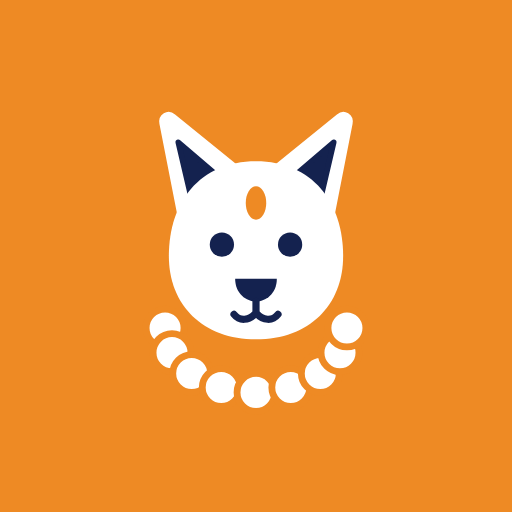
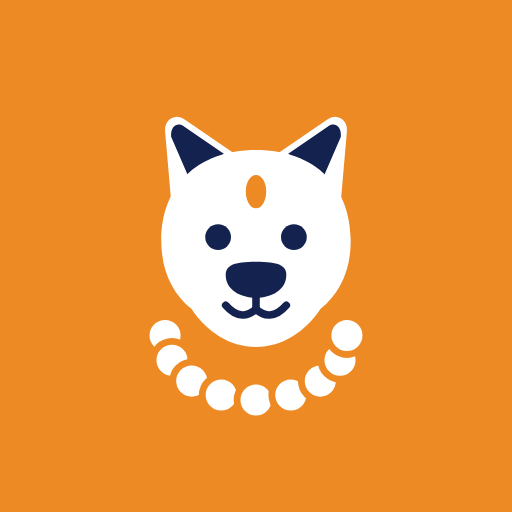
Cachorro com cara mais canina (orelhas dobradas) em todo o app e nos ícones
Claude-Session: https://claude.ai/code/session_015n68Sv2eCJeBy56QsFjyZi

diff --git a/app.js b/app.js
@@ -1,6 +1,6 @@
 import { Decrypter } from "./vendor/age.js";
 
-const VERSAO_APP = "v17";
+const VERSAO_APP = "v18";
 
 /* ---------- utilidades ---------- */
 const $app = document.getElementById("app");
@@ -83,11 +83,11 @@ const PAISES = {
 const OURO = { nome: "Brasil", cor: "#F2C230", tint: "#FBEFC4", claro: true };
 
 /* o cachorro do Indaly (logo). Desenho gerado por ferramentas/cao.py */
-const CAO = '<path d="M31 43 L25.5 15 C25.2 13.3 26.8 12.4 28 13.4 L46 28 Z" fill="#FFFFFF" stroke="#FFFFFF" stroke-width="2" stroke-linejoin="round"/><path d="M69 43 L74.5 15 C74.8 13.3 73.2 12.4 72 13.4 L54 28 Z" fill="#FFFFFF" stroke="#FFFFFF" stroke-width="2" stroke-linejoin="round"/><path d="M33 35 L29.5 20 L40 29 Z" fill="#14224F" stroke="#14224F" stroke-width="1.5" stroke-linejoin="round"/><path d="M67 35 L70.5 20 L60 29 Z" fill="#14224F" stroke="#14224F" stroke-width="1.5" stroke-linejoin="round"/><path d="M50 25 C65 25 73 36 73 50 C73 63 64 72 50 72 C36 72 27 63 27 50 C27 36 35 25 50 25 Z" fill="#FFFFFF"/><g class="olho-aberto"><circle cx="41" cy="47" r="3.2" fill="#14224F"/><circle cx="59" cy="47" r="3.2" fill="#14224F"/></g><path d="M44.5 56 H55.5 C55.5 60 52.5 62 50 62 C47.5 62 44.5 60 44.5 56 Z" fill="#14224F"/><path d="M50 62 V65 M50 65 C48.2 67.2 45.6 67.2 44.2 65.4 M50 65 C51.8 67.2 54.4 67.2 55.8 65.4" fill="none" stroke="#14224F" stroke-width="1.9" stroke-linecap="round"/><ellipse cx="50" cy="36" rx="2.7" ry="4.4" fill="#EE8A24"/><circle cx="26.00" cy="69.00" r="5" fill="#FFFFFF" stroke="#EE8A24" stroke-width="1.8"/><circle cx="27.83" cy="75.51" r="5" fill="#FFFFFF" stroke="#EE8A24" stroke-width="1.8"/><circle cx="33.03" cy="81.02" r="5" fill="#FFFFFF" stroke="#EE8A24" stroke-width="1.8"/><circle cx="40.82" cy="84.71" r="5" fill="#FFFFFF" stroke="#EE8A24" stroke-width="1.8"/><circle cx="50.00" cy="86.00" r="5" fill="#FFFFFF" stroke="#EE8A24" stroke-width="1.8"/><circle cx="59.18" cy="84.71" r="5" fill="#FFFFFF" stroke="#EE8A24" stroke-width="1.8"/><circle cx="66.97" cy="81.02" r="5" fill="#FFFFFF" stroke="#EE8A24" stroke-width="1.8"/><circle cx="72.17" cy="75.51" r="5" fill="#FFFFFF" stroke="#EE8A24" stroke-width="1.8"/><circle cx="74.00" cy="69.00" r="5" fill="#FFFFFF" stroke="#EE8A24" stroke-width="1.8"/>';
-const CAO_OLHOS = '<path d="M31 43 L25.5 15 C25.2 13.3 26.8 12.4 28 13.4 L46 28 Z" fill="#FFFFFF" stroke="#FFFFFF" stroke-width="2" stroke-linejoin="round"/><path d="M69 43 L74.5 15 C74.8 13.3 73.2 12.4 72 13.4 L54 28 Z" fill="#FFFFFF" stroke="#FFFFFF" stroke-width="2" stroke-linejoin="round"/><path d="M33 35 L29.5 20 L40 29 Z" fill="#14224F" stroke="#14224F" stroke-width="1.5" stroke-linejoin="round"/><path d="M67 35 L70.5 20 L60 29 Z" fill="#14224F" stroke="#14224F" stroke-width="1.5" stroke-linejoin="round"/><path d="M50 25 C65 25 73 36 73 50 C73 63 64 72 50 72 C36 72 27 63 27 50 C27 36 35 25 50 25 Z" fill="#FFFFFF"/><g class="olho-aberto"><circle cx="41" cy="47" r="3.2" fill="#14224F"/><circle cx="59" cy="47" r="3.2" fill="#14224F"/></g><g class="olho-fechado"><path d="M37.2 46.6 Q41 50.4 44.8 46.6" fill="none" stroke="#14224F" stroke-width="2.3" stroke-linecap="round"/><path d="M55.2 46.6 Q59 50.4 62.8 46.6" fill="none" stroke="#14224F" stroke-width="2.3" stroke-linecap="round"/></g><path d="M44.5 56 H55.5 C55.5 60 52.5 62 50 62 C47.5 62 44.5 60 44.5 56 Z" fill="#14224F"/><path d="M50 62 V65 M50 65 C48.2 67.2 45.6 67.2 44.2 65.4 M50 65 C51.8 67.2 54.4 67.2 55.8 65.4" fill="none" stroke="#14224F" stroke-width="1.9" stroke-linecap="round"/><ellipse cx="50" cy="36" rx="2.7" ry="4.4" fill="#EE8A24"/><circle cx="26.00" cy="69.00" r="5" fill="#FFFFFF" stroke="#EE8A24" stroke-width="1.8"/><circle cx="27.83" cy="75.51" r="5" fill="#FFFFFF" stroke="#EE8A24" stroke-width="1.8"/><circle cx="33.03" cy="81.02" r="5" fill="#FFFFFF" stroke="#EE8A24" stroke-width="1.8"/><circle cx="40.82" cy="84.71" r="5" fill="#FFFFFF" stroke="#EE8A24" stroke-width="1.8"/><circle cx="50.00" cy="86.00" r="5" fill="#FFFFFF" stroke="#EE8A24" stroke-width="1.8"/><circle cx="59.18" cy="84.71" r="5" fill="#FFFFFF" stroke="#EE8A24" stroke-width="1.8"/><circle cx="66.97" cy="81.02" r="5" fill="#FFFFFF" stroke="#EE8A24" stroke-width="1.8"/><circle cx="72.17" cy="75.51" r="5" fill="#FFFFFF" stroke="#EE8A24" stroke-width="1.8"/><circle cx="74.00" cy="69.00" r="5" fill="#FFFFFF" stroke="#EE8A24" stroke-width="1.8"/>';
-const CAO_FRASE = '<path d="M31 43 L25.5 15 C25.2 13.3 26.8 12.4 28 13.4 L46 28 Z" fill="#FFFFFF" stroke="#FFFFFF" stroke-width="2" stroke-linejoin="round"/><path d="M69 43 L74.5 15 C74.8 13.3 73.2 12.4 72 13.4 L54 28 Z" fill="#FFFFFF" stroke="#FFFFFF" stroke-width="2" stroke-linejoin="round"/><path d="M33 35 L29.5 20 L40 29 Z" fill="#14224F" stroke="#14224F" stroke-width="1.5" stroke-linejoin="round"/><path d="M67 35 L70.5 20 L60 29 Z" fill="#14224F" stroke="#14224F" stroke-width="1.5" stroke-linejoin="round"/><path d="M50 25 C65 25 73 36 73 50 C73 63 64 72 50 72 C36 72 27 63 27 50 C27 36 35 25 50 25 Z" fill="#FFFFFF"/><g class="olho-aberto"><circle cx="41" cy="47" r="3.2" fill="#14224F"/><circle cx="59" cy="47" r="3.2" fill="#14224F"/></g><path d="M44.5 56 H55.5 C55.5 60 52.5 62 50 62 C47.5 62 44.5 60 44.5 56 Z" fill="#14224F"/><path d="M50 62 V65 M50 65 C48.2 67.2 45.6 67.2 44.2 65.4 M50 65 C51.8 67.2 54.4 67.2 55.8 65.4" fill="none" stroke="#14224F" stroke-width="1.9" stroke-linecap="round"/><ellipse cx="50" cy="36" rx="2.7" ry="4.4" fill="#EE8A24"/><circle cx="26.00" cy="69.00" r="5" fill="#FFFFFF" stroke="#14224F" stroke-width="1.8"/><circle cx="27.83" cy="75.51" r="5" fill="#FFFFFF" stroke="#14224F" stroke-width="1.8"/><circle cx="33.03" cy="81.02" r="5" fill="#FFFFFF" stroke="#14224F" stroke-width="1.8"/><circle cx="40.82" cy="84.71" r="5" fill="#FFFFFF" stroke="#14224F" stroke-width="1.8"/><circle cx="50.00" cy="86.00" r="5" fill="#FFFFFF" stroke="#14224F" stroke-width="1.8"/><circle cx="59.18" cy="84.71" r="5" fill="#FFFFFF" stroke="#14224F" stroke-width="1.8"/><circle cx="66.97" cy="81.02" r="5" fill="#FFFFFF" stroke="#14224F" stroke-width="1.8"/><circle cx="72.17" cy="75.51" r="5" fill="#FFFFFF" stroke="#14224F" stroke-width="1.8"/><circle cx="74.00" cy="69.00" r="5" fill="#FFFFFF" stroke="#14224F" stroke-width="1.8"/>';
-const CAO_SEM_GUIRLANDA = '<path d="M31 43 L25.5 15 C25.2 13.3 26.8 12.4 28 13.4 L46 28 Z" fill="#FFFFFF" stroke="#FFFFFF" stroke-width="2" stroke-linejoin="round"/><path d="M69 43 L74.5 15 C74.8 13.3 73.2 12.4 72 13.4 L54 28 Z" fill="#FFFFFF" stroke="#FFFFFF" stroke-width="2" stroke-linejoin="round"/><path d="M33 35 L29.5 20 L40 29 Z" fill="#14224F" stroke="#14224F" stroke-width="1.5" stroke-linejoin="round"/><path d="M67 35 L70.5 20 L60 29 Z" fill="#14224F" stroke="#14224F" stroke-width="1.5" stroke-linejoin="round"/><path d="M50 25 C65 25 73 36 73 50 C73 63 64 72 50 72 C36 72 27 63 27 50 C27 36 35 25 50 25 Z" fill="#FFFFFF"/><g class="olho-aberto"><circle cx="41" cy="47" r="3.2" fill="#14224F"/><circle cx="59" cy="47" r="3.2" fill="#14224F"/></g><path d="M44.5 56 H55.5 C55.5 60 52.5 62 50 62 C47.5 62 44.5 60 44.5 56 Z" fill="#14224F"/><path d="M50 62 V65 M50 65 C48.2 67.2 45.6 67.2 44.2 65.4 M50 65 C51.8 67.2 54.4 67.2 55.8 65.4" fill="none" stroke="#14224F" stroke-width="1.9" stroke-linecap="round"/><ellipse cx="50" cy="36" rx="2.7" ry="4.4" fill="#EE8A24"/>';
-const CAO_FUSO = '<path d="M31 43 L25.5 15 C25.2 13.3 26.8 12.4 28 13.4 L46 28 Z" fill="#FFFFFF" stroke="#FFFFFF" stroke-width="2" stroke-linejoin="round"/><path d="M69 43 L74.5 15 C74.8 13.3 73.2 12.4 72 13.4 L54 28 Z" fill="#FFFFFF" stroke="#FFFFFF" stroke-width="2" stroke-linejoin="round"/><path d="M33 35 L29.5 20 L40 29 Z" fill="#14224F" stroke="#14224F" stroke-width="1.5" stroke-linejoin="round"/><path d="M67 35 L70.5 20 L60 29 Z" fill="#14224F" stroke="#14224F" stroke-width="1.5" stroke-linejoin="round"/><path d="M50 25 C65 25 73 36 73 50 C73 63 64 72 50 72 C36 72 27 63 27 50 C27 36 35 25 50 25 Z" fill="#FFFFFF"/><circle cx="41" cy="47" r="3.2" fill="#14224F"/><path d="M55.2 46.6 Q59 50.4 62.8 46.6" fill="none" stroke="#14224F" stroke-width="2.3" stroke-linecap="round"/><path d="M44.5 56 H55.5 C55.5 60 52.5 62 50 62 C47.5 62 44.5 60 44.5 56 Z" fill="#14224F"/><path d="M50 62 V65 M50 65 C48.2 67.2 45.6 67.2 44.2 65.4 M50 65 C51.8 67.2 54.4 67.2 55.8 65.4" fill="none" stroke="#14224F" stroke-width="1.9" stroke-linecap="round"/><ellipse cx="50" cy="36" rx="2.7" ry="4.4" fill="#EE8A24"/><circle cx="26.00" cy="69.00" r="5" fill="#FFFFFF" stroke="#0D7A48" stroke-width="1.8"/><circle cx="27.83" cy="75.51" r="5" fill="#FFFFFF" stroke="#0D7A48" stroke-width="1.8"/><circle cx="33.03" cy="81.02" r="5" fill="#FFFFFF" stroke="#0D7A48" stroke-width="1.8"/><circle cx="40.82" cy="84.71" r="5" fill="#FFFFFF" stroke="#0D7A48" stroke-width="1.8"/><circle cx="50.00" cy="86.00" r="5" fill="#FFFFFF" stroke="#0D7A48" stroke-width="1.8"/><circle cx="59.18" cy="84.71" r="5" fill="#FFFFFF" stroke="#0D7A48" stroke-width="1.8"/><circle cx="66.97" cy="81.02" r="5" fill="#FFFFFF" stroke="#0D7A48" stroke-width="1.8"/><circle cx="72.17" cy="75.51" r="5" fill="#FFFFFF" stroke="#0D7A48" stroke-width="1.8"/><circle cx="74.00" cy="69.00" r="5" fill="#FFFFFF" stroke="#0D7A48" stroke-width="1.8"/>';
+const CAO = '<path d="M29 40 L27 17 C26.8 14.5 29 13.6 30.6 14.8 L47 26 Z" fill="#FFFFFF" stroke="#FFFFFF" stroke-width="2" stroke-linejoin="round"/><path d="M27.6 18.5 C27.4 15.6 29.4 14.6 31 15.8 L41.5 23 L33 31 Z" fill="#14224F"/><path d="M71 40 L73 17 C73.2 14.5 71 13.6 69.4 14.8 L53 26 Z" fill="#FFFFFF" stroke="#FFFFFF" stroke-width="2" stroke-linejoin="round"/><path d="M72.4 18.5 C72.6 15.6 70.6 14.6 69 15.8 L58.5 23 L67 31 Z" fill="#14224F"/><path d="M50 22 C66 22 75 32 75 46 C75 54 72 60 67 64 C63 70 57 74 50 74 C43 74 37 70 33 64 C28 60 25 54 25 46 C25 32 34 22 50 22 Z" fill="#FFFFFF"/><g class="olho-aberto"><circle cx="40" cy="45" r="3.4" fill="#14224F"/><circle cx="60" cy="45" r="3.4" fill="#14224F"/></g><path d="M42 55 C42 52.5 44 51.5 50 51.5 C56 51.5 58 52.5 58 55 C58 59 54 61 50 61 C46 61 42 59 42 55 Z" fill="#14224F"/><path d="M50 61 V64" stroke="#14224F" stroke-width="2" stroke-linecap="round" fill="none"/><path d="M42 63 C45 66.5 48 66 50 64 C52 66 55 66.5 58 63" fill="none" stroke="#14224F" stroke-width="2" stroke-linecap="round"/><ellipse cx="50" cy="33" rx="2.7" ry="4.4" fill="#EE8A24"/><circle cx="26.00" cy="71.00" r="5" fill="#FFFFFF" stroke="#EE8A24" stroke-width="1.8"/><circle cx="27.83" cy="77.51" r="5" fill="#FFFFFF" stroke="#EE8A24" stroke-width="1.8"/><circle cx="33.03" cy="83.02" r="5" fill="#FFFFFF" stroke="#EE8A24" stroke-width="1.8"/><circle cx="40.82" cy="86.71" r="5" fill="#FFFFFF" stroke="#EE8A24" stroke-width="1.8"/><circle cx="50.00" cy="88.00" r="5" fill="#FFFFFF" stroke="#EE8A24" stroke-width="1.8"/><circle cx="59.18" cy="86.71" r="5" fill="#FFFFFF" stroke="#EE8A24" stroke-width="1.8"/><circle cx="66.97" cy="83.02" r="5" fill="#FFFFFF" stroke="#EE8A24" stroke-width="1.8"/><circle cx="72.17" cy="77.51" r="5" fill="#FFFFFF" stroke="#EE8A24" stroke-width="1.8"/><circle cx="74.00" cy="71.00" r="5" fill="#FFFFFF" stroke="#EE8A24" stroke-width="1.8"/>';
+const CAO_OLHOS = '<path d="M29 40 L27 17 C26.8 14.5 29 13.6 30.6 14.8 L47 26 Z" fill="#FFFFFF" stroke="#FFFFFF" stroke-width="2" stroke-linejoin="round"/><path d="M27.6 18.5 C27.4 15.6 29.4 14.6 31 15.8 L41.5 23 L33 31 Z" fill="#14224F"/><path d="M71 40 L73 17 C73.2 14.5 71 13.6 69.4 14.8 L53 26 Z" fill="#FFFFFF" stroke="#FFFFFF" stroke-width="2" stroke-linejoin="round"/><path d="M72.4 18.5 C72.6 15.6 70.6 14.6 69 15.8 L58.5 23 L67 31 Z" fill="#14224F"/><path d="M50 22 C66 22 75 32 75 46 C75 54 72 60 67 64 C63 70 57 74 50 74 C43 74 37 70 33 64 C28 60 25 54 25 46 C25 32 34 22 50 22 Z" fill="#FFFFFF"/><g class="olho-aberto"><circle cx="40" cy="45" r="3.4" fill="#14224F"/><circle cx="60" cy="45" r="3.4" fill="#14224F"/></g><g class="olho-fechado"><path d="M36.2 44.6 Q40 48.4 43.8 44.6" fill="none" stroke="#14224F" stroke-width="2.3" stroke-linecap="round"/><path d="M56.2 44.6 Q60 48.4 63.8 44.6" fill="none" stroke="#14224F" stroke-width="2.3" stroke-linecap="round"/></g><path d="M42 55 C42 52.5 44 51.5 50 51.5 C56 51.5 58 52.5 58 55 C58 59 54 61 50 61 C46 61 42 59 42 55 Z" fill="#14224F"/><path d="M50 61 V64" stroke="#14224F" stroke-width="2" stroke-linecap="round" fill="none"/><path d="M42 63 C45 66.5 48 66 50 64 C52 66 55 66.5 58 63" fill="none" stroke="#14224F" stroke-width="2" stroke-linecap="round"/><ellipse cx="50" cy="33" rx="2.7" ry="4.4" fill="#EE8A24"/><circle cx="26.00" cy="71.00" r="5" fill="#FFFFFF" stroke="#EE8A24" stroke-width="1.8"/><circle cx="27.83" cy="77.51" r="5" fill="#FFFFFF" stroke="#EE8A24" stroke-width="1.8"/><circle cx="33.03" cy="83.02" r="5" fill="#FFFFFF" stroke="#EE8A24" stroke-width="1.8"/><circle cx="40.82" cy="86.71" r="5" fill="#FFFFFF" stroke="#EE8A24" stroke-width="1.8"/><circle cx="50.00" cy="88.00" r="5" fill="#FFFFFF" stroke="#EE8A24" stroke-width="1.8"/><circle cx="59.18" cy="86.71" r="5" fill="#FFFFFF" stroke="#EE8A24" stroke-width="1.8"/><circle cx="66.97" cy="83.02" r="5" fill="#FFFFFF" stroke="#EE8A24" stroke-width="1.8"/><circle cx="72.17" cy="77.51" r="5" fill="#FFFFFF" stroke="#EE8A24" stroke-width="1.8"/><circle cx="74.00" cy="71.00" r="5" fill="#FFFFFF" stroke="#EE8A24" stroke-width="1.8"/>';
+const CAO_FRASE = '<path d="M29 40 L27 17 C26.8 14.5 29 13.6 30.6 14.8 L47 26 Z" fill="#FFFFFF" stroke="#FFFFFF" stroke-width="2" stroke-linejoin="round"/><path d="M27.6 18.5 C27.4 15.6 29.4 14.6 31 15.8 L41.5 23 L33 31 Z" fill="#14224F"/><path d="M71 40 L73 17 C73.2 14.5 71 13.6 69.4 14.8 L53 26 Z" fill="#FFFFFF" stroke="#FFFFFF" stroke-width="2" stroke-linejoin="round"/><path d="M72.4 18.5 C72.6 15.6 70.6 14.6 69 15.8 L58.5 23 L67 31 Z" fill="#14224F"/><path d="M50 22 C66 22 75 32 75 46 C75 54 72 60 67 64 C63 70 57 74 50 74 C43 74 37 70 33 64 C28 60 25 54 25 46 C25 32 34 22 50 22 Z" fill="#FFFFFF"/><g class="olho-aberto"><circle cx="40" cy="45" r="3.4" fill="#14224F"/><circle cx="60" cy="45" r="3.4" fill="#14224F"/></g><path d="M42 55 C42 52.5 44 51.5 50 51.5 C56 51.5 58 52.5 58 55 C58 59 54 61 50 61 C46 61 42 59 42 55 Z" fill="#14224F"/><path d="M50 61 V64" stroke="#14224F" stroke-width="2" stroke-linecap="round" fill="none"/><path d="M42 63 C45 66.5 48 66 50 64 C52 66 55 66.5 58 63" fill="none" stroke="#14224F" stroke-width="2" stroke-linecap="round"/><ellipse cx="50" cy="33" rx="2.7" ry="4.4" fill="#EE8A24"/><circle cx="26.00" cy="71.00" r="5" fill="#FFFFFF" stroke="#14224F" stroke-width="1.8"/><circle cx="27.83" cy="77.51" r="5" fill="#FFFFFF" stroke="#14224F" stroke-width="1.8"/><circle cx="33.03" cy="83.02" r="5" fill="#FFFFFF" stroke="#14224F" stroke-width="1.8"/><circle cx="40.82" cy="86.71" r="5" fill="#FFFFFF" stroke="#14224F" stroke-width="1.8"/><circle cx="50.00" cy="88.00" r="5" fill="#FFFFFF" stroke="#14224F" stroke-width="1.8"/><circle cx="59.18" cy="86.71" r="5" fill="#FFFFFF" stroke="#14224F" stroke-width="1.8"/><circle cx="66.97" cy="83.02" r="5" fill="#FFFFFF" stroke="#14224F" stroke-width="1.8"/><circle cx="72.17" cy="77.51" r="5" fill="#FFFFFF" stroke="#14224F" stroke-width="1.8"/><circle cx="74.00" cy="71.00" r="5" fill="#FFFFFF" stroke="#14224F" stroke-width="1.8"/>';
+const CAO_SEM_GUIRLANDA = '<path d="M29 40 L27 17 C26.8 14.5 29 13.6 30.6 14.8 L47 26 Z" fill="#FFFFFF" stroke="#FFFFFF" stroke-width="2" stroke-linejoin="round"/><path d="M27.6 18.5 C27.4 15.6 29.4 14.6 31 15.8 L41.5 23 L33 31 Z" fill="#14224F"/><path d="M71 40 L73 17 C73.2 14.5 71 13.6 69.4 14.8 L53 26 Z" fill="#FFFFFF" stroke="#FFFFFF" stroke-width="2" stroke-linejoin="round"/><path d="M72.4 18.5 C72.6 15.6 70.6 14.6 69 15.8 L58.5 23 L67 31 Z" fill="#14224F"/><path d="M50 22 C66 22 75 32 75 46 C75 54 72 60 67 64 C63 70 57 74 50 74 C43 74 37 70 33 64 C28 60 25 54 25 46 C25 32 34 22 50 22 Z" fill="#FFFFFF"/><g class="olho-aberto"><circle cx="40" cy="45" r="3.4" fill="#14224F"/><circle cx="60" cy="45" r="3.4" fill="#14224F"/></g><path d="M42 55 C42 52.5 44 51.5 50 51.5 C56 51.5 58 52.5 58 55 C58 59 54 61 50 61 C46 61 42 59 42 55 Z" fill="#14224F"/><path d="M50 61 V64" stroke="#14224F" stroke-width="2" stroke-linecap="round" fill="none"/><path d="M42 63 C45 66.5 48 66 50 64 C52 66 55 66.5 58 63" fill="none" stroke="#14224F" stroke-width="2" stroke-linecap="round"/><ellipse cx="50" cy="33" rx="2.7" ry="4.4" fill="#EE8A24"/>';
+const CAO_FUSO = '<path d="M29 40 L27 17 C26.8 14.5 29 13.6 30.6 14.8 L47 26 Z" fill="#FFFFFF" stroke="#FFFFFF" stroke-width="2" stroke-linejoin="round"/><path d="M27.6 18.5 C27.4 15.6 29.4 14.6 31 15.8 L41.5 23 L33 31 Z" fill="#14224F"/><path d="M71 40 L73 17 C73.2 14.5 71 13.6 69.4 14.8 L53 26 Z" fill="#FFFFFF" stroke="#FFFFFF" stroke-width="2" stroke-linejoin="round"/><path d="M72.4 18.5 C72.6 15.6 70.6 14.6 69 15.8 L58.5 23 L67 31 Z" fill="#14224F"/><path d="M50 22 C66 22 75 32 75 46 C75 54 72 60 67 64 C63 70 57 74 50 74 C43 74 37 70 33 64 C28 60 25 54 25 46 C25 32 34 22 50 22 Z" fill="#FFFFFF"/><circle cx="40" cy="45" r="3.4" fill="#14224F"/><path d="M56.2 44.6 Q60 48.4 63.8 44.6" fill="none" stroke="#14224F" stroke-width="2.3" stroke-linecap="round"/><path d="M42 55 C42 52.5 44 51.5 50 51.5 C56 51.5 58 52.5 58 55 C58 59 54 61 50 61 C46 61 42 59 42 55 Z" fill="#14224F"/><path d="M50 61 V64" stroke="#14224F" stroke-width="2" stroke-linecap="round" fill="none"/><path d="M42 63 C45 66.5 48 66 50 64 C52 66 55 66.5 58 63" fill="none" stroke="#14224F" stroke-width="2" stroke-linecap="round"/><ellipse cx="50" cy="33" rx="2.7" ry="4.4" fill="#EE8A24"/><circle cx="26.00" cy="71.00" r="5" fill="#FFFFFF" stroke="#0D7A48" stroke-width="1.8"/><circle cx="27.83" cy="77.51" r="5" fill="#FFFFFF" stroke="#0D7A48" stroke-width="1.8"/><circle cx="33.03" cy="83.02" r="5" fill="#FFFFFF" stroke="#0D7A48" stroke-width="1.8"/><circle cx="40.82" cy="86.71" r="5" fill="#FFFFFF" stroke="#0D7A48" stroke-width="1.8"/><circle cx="50.00" cy="88.00" r="5" fill="#FFFFFF" stroke="#0D7A48" stroke-width="1.8"/><circle cx="59.18" cy="86.71" r="5" fill="#FFFFFF" stroke="#0D7A48" stroke-width="1.8"/><circle cx="66.97" cy="83.02" r="5" fill="#FFFFFF" stroke="#0D7A48" stroke-width="1.8"/><circle cx="72.17" cy="77.51" r="5" fill="#FFFFFF" stroke="#0D7A48" stroke-width="1.8"/><circle cx="74.00" cy="71.00" r="5" fill="#FFFFFF" stroke="#0D7A48" stroke-width="1.8"/>';
 function caoSVG(tam, { fundo = true, olhos = "abertos", classe = "", rotulo = "" } = {}) {
   const corpo = olhos === "ambos" ? CAO_OLHOS : CAO;
   const a11y = rotulo ? `role="img" aria-label="${h(rotulo)}"` : 'aria-hidden="true"';
@@ -1166,12 +1166,12 @@ const FUSOS = [
 
 /* sub-apps da aba Mais: para acrescentar um novo, basta incluir aqui e criar a função da página */
 const SUBAPPS = [
-  { id: "emergencia", nome: "Emergência", cor: "#C3122F", icone: `<svg class="icone-cao" viewBox="0 0 100 100" aria-hidden="true"><g transform="translate(0 -7)">${CAO_SEM_GUIRLANDA}</g><path d="M36 67.5 Q50 75 64 67.5" fill="none" stroke="#14224F" stroke-width="3" stroke-linecap="round"></path><rect x="29" y="72" width="42" height="25" rx="9" fill="#FFFFFF"></rect><rect x="36" y="72" width="3.6" height="25" fill="#14224F"></rect><rect x="60.4" y="72" width="3.6" height="25" fill="#14224F"></rect><rect x="47.1" y="77" width="5.8" height="15" rx="1.2" fill="#C3122F"></rect><rect x="42.5" y="81.6" width="15" height="5.8" rx="1.2" fill="#C3122F"></rect></svg>`, tela: () => telaEmergencia() },
-  { id: "frases", nome: "Frases", cor: "#14224F", icone: `<svg class="icone-cao" viewBox="0 0 100 100" aria-hidden="true"><g transform="translate(-9 13) scale(0.9)">${CAO_FRASE}</g><path d="M60 8 H90 A6 6 0 0 1 96 14 V32 A6 6 0 0 1 90 38 H75 L65 46 L67 38 H60 A6 6 0 0 1 54 32 V14 A6 6 0 0 1 60 8 Z" fill="#FFFFFF"></path><circle cx="65.5" cy="23" r="3" fill="#14224F"></circle><circle cx="75" cy="23" r="3" fill="#14224F"></circle><circle cx="84.5" cy="23" r="3" fill="#14224F"></circle></svg>`, tela: () => telaFrases() },
+  { id: "emergencia", nome: "Emergência", cor: "#C3122F", icone: `<svg class="icone-cao" viewBox="0 0 100 100" aria-hidden="true"><g transform="translate(0 -9)">${CAO_SEM_GUIRLANDA}</g><path d="M37 67 Q50 74 63 67" fill="none" stroke="#14224F" stroke-width="3" stroke-linecap="round"></path><rect x="29" y="71" width="42" height="25" rx="9" fill="#FFFFFF"></rect><rect x="36" y="71" width="3.6" height="25" fill="#14224F"></rect><rect x="60.4" y="71" width="3.6" height="25" fill="#14224F"></rect><rect x="47.1" y="77" width="5.8" height="15" rx="1.2" fill="#C3122F"></rect><rect x="42.5" y="81.6" width="15" height="5.8" rx="1.2" fill="#C3122F"></rect></svg>`, tela: () => telaEmergencia() },
+  { id: "frases", nome: "Frases", cor: "#14224F", icone: `<svg class="icone-cao" viewBox="0 0 100 100" aria-hidden="true"><g transform="translate(-9 10) scale(0.9)">${CAO_FRASE}</g><path d="M60 8 H90 A6 6 0 0 1 96 14 V32 A6 6 0 0 1 90 38 H75 L65 46 L67 38 H60 A6 6 0 0 1 54 32 V14 A6 6 0 0 1 60 8 Z" fill="#FFFFFF"></path><circle cx="65.5" cy="23" r="3" fill="#14224F"></circle><circle cx="75" cy="23" r="3" fill="#14224F"></circle><circle cx="84.5" cy="23" r="3" fill="#14224F"></circle></svg>`, tela: () => telaFrases() },
   { id: "mala", nome: "Mala", cor: "#2D4BA0", icone: '<svg viewBox="0 0 24 24" aria-hidden="true"><path d="M9 6V3.5h6V6"/><rect x="5" y="6" width="14" height="13" rx="2.5"/><path d="M9.5 9.5v6M14.5 9.5v6"/><circle cx="8.5" cy="21" r="1"/><circle cx="15.5" cy="21" r="1"/></svg>', tela: (b) => telaMala(b) },
-  { id: "tempo", nome: "Tempo", cor: "#EE8A24", icone: `<svg class="icone-cao" viewBox="0 0 100 100" aria-hidden="true"><g transform="translate(-6 6) scale(1.02)">${CAO}</g><circle cx="84" cy="15" r="8.5" fill="#FFFFFF"></circle><g stroke="#FFFFFF" stroke-width="3.2" stroke-linecap="round"><path d="M84.0 3.0 L84.0 -0.5"></path><path d="M92.5 6.5 L95.0 4.0"></path><path d="M96.0 15.0 L99.5 15.0"></path><path d="M92.5 23.5 L95.0 26.0"></path><path d="M84.0 27.0 L84.0 30.5"></path><path d="M75.5 6.5 L73.0 4.0"></path></g></svg>`, tela: (b) => (b ? telaTempoDia(b) : telaTempo()) },
+  { id: "tempo", nome: "Tempo", cor: "#EE8A24", icone: `<svg class="icone-cao" viewBox="0 0 100 100" aria-hidden="true"><g transform="translate(-4 3) scale(0.98)">${CAO}</g><circle cx="84" cy="15" r="8.5" fill="#FFFFFF"></circle><g stroke="#FFFFFF" stroke-width="3.2" stroke-linecap="round"><path d="M84.0 3.0 L84.0 -0.5"></path><path d="M92.5 6.5 L95.0 4.0"></path><path d="M96.0 15.0 L99.5 15.0"></path><path d="M92.5 23.5 L95.0 26.0"></path><path d="M84.0 27.0 L84.0 30.5"></path><path d="M75.5 6.5 L73.0 4.0"></path></g></svg>`, tela: (b) => (b ? telaTempoDia(b) : telaTempo()) },
   { id: "apps", nome: "Apps úteis", cor: "#A3560A", icone: '<svg viewBox="0 0 24 24" aria-hidden="true"><rect x="4" y="4" width="6.5" height="6.5" rx="1.6"/><rect x="13.5" y="4" width="6.5" height="6.5" rx="1.6"/><rect x="4" y="13.5" width="6.5" height="6.5" rx="1.6"/><rect x="13.5" y="13.5" width="6.5" height="6.5" rx="1.6"/></svg>', tela: () => telaApps() },
-  { id: "fusos", nome: "Fusos", cor: "#0D7A48", icone: `<svg class="icone-cao" viewBox="0 0 100 100" aria-hidden="true"><g transform="translate(50 52) scale(1.12) translate(-50 -52)">${CAO_FUSO}</g></svg>`, tela: () => telaFusos() },
+  { id: "fusos", nome: "Fusos", cor: "#0D7A48", icone: `<svg class="icone-cao" viewBox="0 0 100 100" aria-hidden="true"><g transform="translate(50 53) scale(1.06) translate(-50 -53)">${CAO_FUSO}</g></svg>`, tela: () => telaFusos() },
   { id: "tema", nome: "Tema", cor: "#0D1222", icone: '<svg viewBox="0 0 24 24" aria-hidden="true"><path d="M20 14.5A8 8 0 1 1 9.5 4a6.5 6.5 0 0 0 10.5 10.5z"/></svg>', tela: () => telaTema() },
   { id: "atualizar", nome: "Atualizar", cor: "#565D78", icone: '<svg viewBox="0 0 24 24" aria-hidden="true"><path d="M20 11a8 8 0 0 0-14.8-4.2L4 8.5M4 4v4.5h4.5M4 13a8 8 0 0 0 14.8 4.2l1.2-1.7M20 20v-4.5h-4.5"/></svg>', tela: () => telaAtualizar() },
   { id: "sair", nome: "Sair", cor: "#3B4262", icone: '<svg viewBox="0 0 24 24" aria-hidden="true"><rect x="5" y="11" width="14" height="10" rx="2"/><path d="M8 11V8a4 4 0 0 1 7.5-2"/><circle cx="12" cy="16" r="1.3"/></svg>', tela: () => telaSair() },

diff --git a/sw.js b/sw.js
@@ -1,5 +1,5 @@
 // Service worker do Indaly: guarda o app e o cofre para funcionar sem internet.
-const VERSAO = "indaly-v17";
+const VERSAO = "indaly-v18";
 const CASCA = [
   "./",
   "index.html",

diff --git a/ferramentas/cao.py b/ferramentas/cao.py
@@ -3,25 +3,27 @@ import math
 LARANJA, AZUL, BRANCO = "#EE8A24", "#14224F", "#FFFFFF"
 
 def cao(gap=LARANJA, olhos="abertos", guirlanda=True):
-    """Desenho em viewBox 0 0 100 100, sem fundo. olhos: abertos | fechados | ambos (classes p/ CSS) | piscando."""
-    s = (f'<path d="M31 43 L25.5 15 C25.2 13.3 26.8 12.4 28 13.4 L46 28 Z" fill="{BRANCO}" stroke="{BRANCO}" stroke-width="2" stroke-linejoin="round"/>'
-         f'<path d="M69 43 L74.5 15 C74.8 13.3 73.2 12.4 72 13.4 L54 28 Z" fill="{BRANCO}" stroke="{BRANCO}" stroke-width="2" stroke-linejoin="round"/>'
-         f'<path d="M33 35 L29.5 20 L40 29 Z" fill="{AZUL}" stroke="{AZUL}" stroke-width="1.5" stroke-linejoin="round"/>'
-         f'<path d="M67 35 L70.5 20 L60 29 Z" fill="{AZUL}" stroke="{AZUL}" stroke-width="1.5" stroke-linejoin="round"/>'
-         f'<path d="M50 25 C65 25 73 36 73 50 C73 63 64 72 50 72 C36 72 27 63 27 50 C27 36 35 25 50 25 Z" fill="{BRANCO}"/>')
-    abertos = f'<g class="olho-aberto"><circle cx="41" cy="47" r="3.2" fill="{AZUL}"/><circle cx="59" cy="47" r="3.2" fill="{AZUL}"/></g>'
-    fechados = (f'<g class="olho-fechado"><path d="M37.2 46.6 Q41 50.4 44.8 46.6" fill="none" stroke="{AZUL}" stroke-width="2.3" stroke-linecap="round"/>'
-                f'<path d="M55.2 46.6 Q59 50.4 62.8 46.6" fill="none" stroke="{AZUL}" stroke-width="2.3" stroke-linecap="round"/></g>')
-    piscando = (f'<circle cx="41" cy="47" r="3.2" fill="{AZUL}"/>'
-                f'<path d="M55.2 46.6 Q59 50.4 62.8 46.6" fill="none" stroke="{AZUL}" stroke-width="2.3" stroke-linecap="round"/>')
-    s += {"abertos": abertos, "fechados": fechados, "ambos": abertos + fechados, "piscando": piscando}[olhos]
-    s += (f'<path d="M44.5 56 H55.5 C55.5 60 52.5 62 50 62 C47.5 62 44.5 60 44.5 56 Z" fill="{AZUL}"/>'
-          f'<path d="M50 62 V65 M50 65 C48.2 67.2 45.6 67.2 44.2 65.4 M50 65 C51.8 67.2 54.4 67.2 55.8 65.4" fill="none" stroke="{AZUL}" stroke-width="1.9" stroke-linecap="round"/>'
-          f'<ellipse cx="50" cy="36" rx="2.7" ry="4.4" fill="{LARANJA}"/>')
+    """Desenho C2 (orelhas dobradas) em viewBox 0 0 100 100, sem fundo.
+    olhos: abertos | fechados | ambos (classes p/ CSS) | piscando."""
+    s = (f'<path d="M29 40 L27 17 C26.8 14.5 29 13.6 30.6 14.8 L47 26 Z" fill="{BRANCO}" stroke="{BRANCO}" stroke-width="2" stroke-linejoin="round"/>'
+         f'<path d="M27.6 18.5 C27.4 15.6 29.4 14.6 31 15.8 L41.5 23 L33 31 Z" fill="{AZUL}"/>'
+         f'<path d="M71 40 L73 17 C73.2 14.5 71 13.6 69.4 14.8 L53 26 Z" fill="{BRANCO}" stroke="{BRANCO}" stroke-width="2" stroke-linejoin="round"/>'
+         f'<path d="M72.4 18.5 C72.6 15.6 70.6 14.6 69 15.8 L58.5 23 L67 31 Z" fill="{AZUL}"/>'
+         f'<path d="M50 22 C66 22 75 32 75 46 C75 54 72 60 67 64 C63 70 57 74 50 74 C43 74 37 70 33 64 C28 60 25 54 25 46 C25 32 34 22 50 22 Z" fill="{BRANCO}"/>')
+    aberto = lambda x: f'<circle cx="{x}" cy="45" r="3.4" fill="{AZUL}"/>'
+    fechado = lambda x: f'<path d="M{x-3.8} 44.6 Q{x} 48.4 {x+3.8} 44.6" fill="none" stroke="{AZUL}" stroke-width="2.3" stroke-linecap="round"/>'
+    abertos = f'<g class="olho-aberto">{aberto(40)}{aberto(60)}</g>'
+    fechados = f'<g class="olho-fechado">{fechado(40)}{fechado(60)}</g>'
+    s += {"abertos": abertos, "fechados": fechados, "ambos": abertos + fechados, "piscando": aberto(40) + fechado(60)}[olhos]
+    y = 55
+    s += (f'<path d="M42 {y} C42 {y-2.5} 44 {y-3.5} 50 {y-3.5} C56 {y-3.5} 58 {y-2.5} 58 {y} C58 {y+4} 54 {y+6} 50 {y+6} C46 {y+6} 42 {y+4} 42 {y} Z" fill="{AZUL}"/>'
+          f'<path d="M50 {y+6} V{y+9}" stroke="{AZUL}" stroke-width="2" stroke-linecap="round" fill="none"/>'
+          f'<path d="M42 {y+8} C45 {y+11.5} 48 {y+11} 50 {y+9} C52 {y+11} 55 {y+11.5} 58 {y+8}" fill="none" stroke="{AZUL}" stroke-width="2" stroke-linecap="round"/>'
+          f'<ellipse cx="50" cy="33" rx="2.7" ry="4.4" fill="{LARANJA}"/>')
     for k in range(9 if guirlanda else 0):
         a = math.pi * k / 8
-        x, y = 50 - 24 * math.cos(a), 69 + 17 * math.sin(a)
-        s += f'<circle cx="{x:.2f}" cy="{y:.2f}" r="5" fill="{BRANCO}" stroke="{gap}" stroke-width="1.8"/>'
+        x, yy = 50 - 24 * math.cos(a), 71 + 17 * math.sin(a)
+        s += f'<circle cx="{x:.2f}" cy="{yy:.2f}" r="5" fill="{BRANCO}" stroke="{gap}" stroke-width="1.8"/>'
     return s
 
 def icone(tamanho=None, raio=22, escala=1.0, olhos="abertos"):
